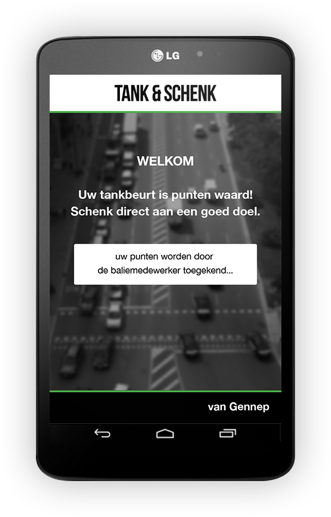
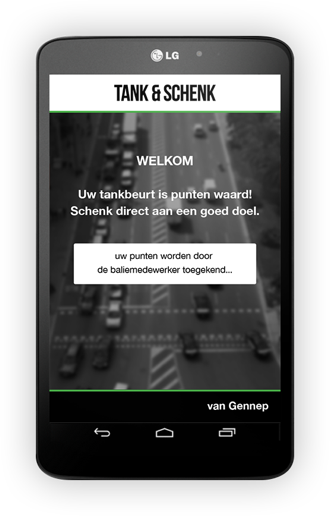
afbeeldingen aangepast

diff --git a/index.html b/index.html
@@ -52,8 +52,8 @@
                 <div id="slider">
                     <div class="slider flexslider">
                         <ul class="slides">
-                            <li><img src="img/header.png" /></li>
-                            <li><img src="img/header02.png" /></li>
+                            <li><img src="img/header.jpg" /></li>
+                            <li><img src="img/header02.jpg" /></li>
                         </ul>
                     </div>
                 </div>
